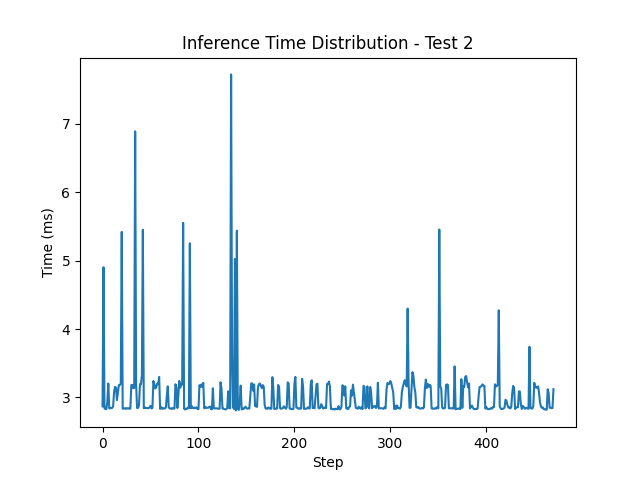
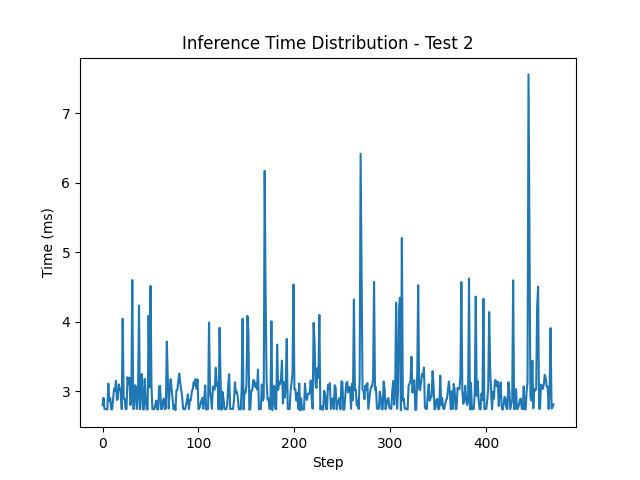
add: result for m_300

diff --git a/controllers/yolo_control/yolo_control.py b/controllers/yolo_control/yolo_control.py
@@ -30,7 +30,7 @@ MAX_TRIALS: int = 6  # Number of trials to run the testing
 MAX_EPISODE_STEPS: int = 2000  # Maximum number of steps per trial
 
 # Create directory for saving plots
-output_dir = "test_results_s_165"
+output_dir = "test_results_m_300"
 os.makedirs(output_dir, exist_ok=True)
 
 
@@ -98,7 +98,7 @@ class YOLOControl(Supervisor):
         self.tolerance_x = 1
 
         # Load the YOLO model
-        self.yolo_model = YOLO("../../runs/detect/train_s_165/weights/best.pt")
+        self.yolo_model = YOLO("../../runs/detect/train_m_300/weights/best.pt")
 
         # Create a window for displaying the processed image
         cv2.namedWindow("Webots YOLO Display", cv2.WINDOW_AUTOSIZE)

diff --git a/controllers/main/YOLO_VisuoExcaRobo.py b/controllers/main/YOLO_VisuoExcaRobo.py
@@ -30,7 +30,7 @@ TARGET_AREA_TH = 2000
 # Constants for the logistic function
 LOWER_Y = -38
 STEPNESS = 5
-MIDPOINT = 20
+MIDPOINT = 13
 TARGET_TH = 3
 
 
@@ -97,7 +97,7 @@ class YOLO_VisuoExcaRobo(Supervisor, Env):
         self.moiety = 2.0 * self.camera_height / 3.0 + 5
 
         # Load the YOLO model
-        self.yolo_model = YOLO("../../runs/detect/train_n_219/weights/best.pt")
+        self.yolo_model = YOLO("../../runs/detect/train_m_300/weights/best.pt")
 
         # Create a window for displaying the processed image
         cv2.namedWindow("Webots YOLO Display", cv2.WINDOW_AUTOSIZE)
